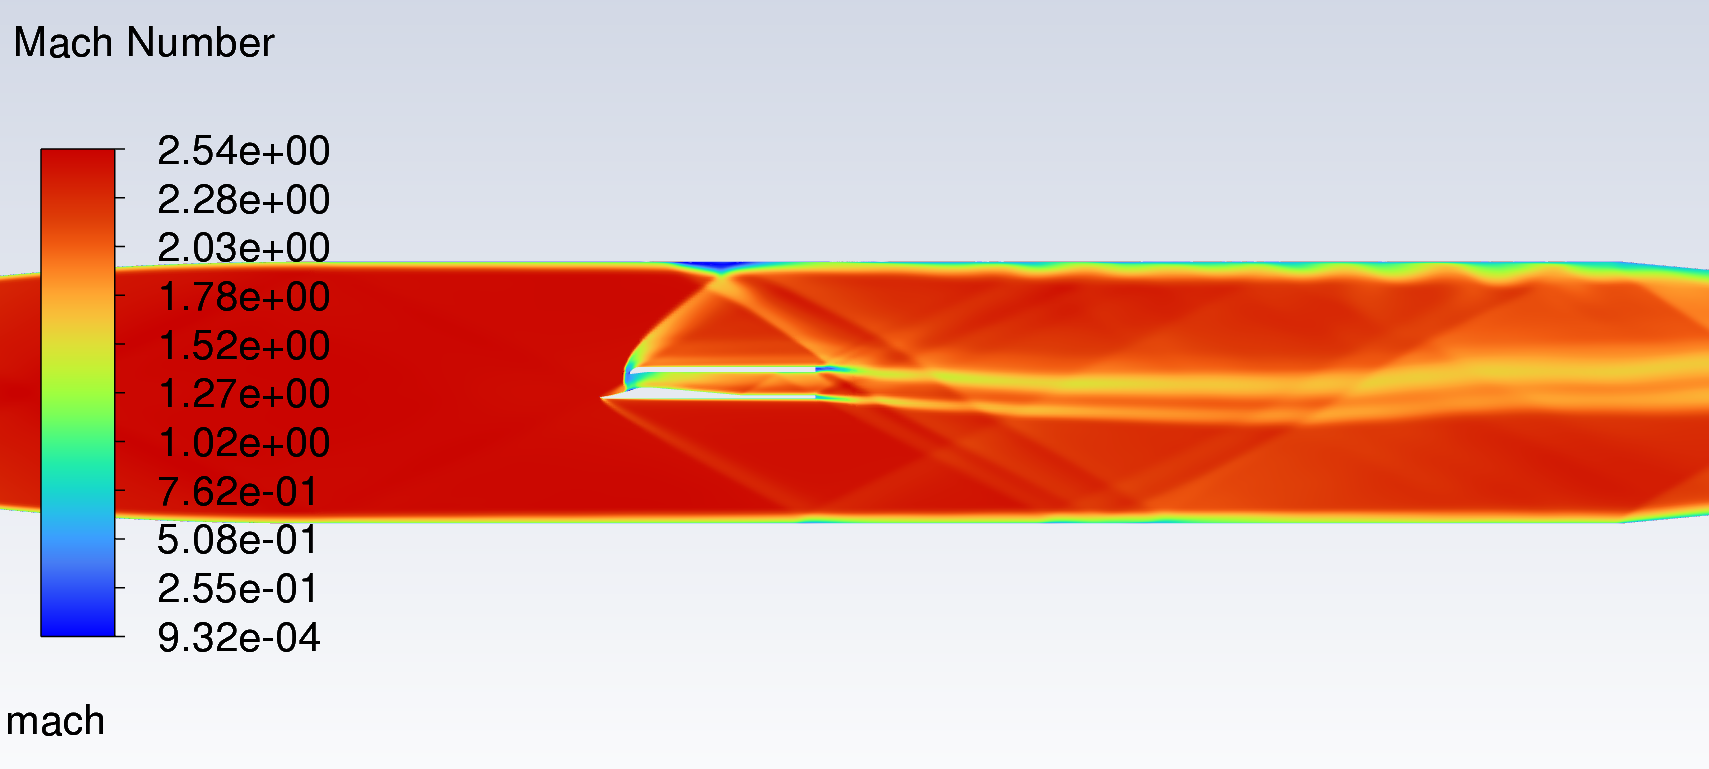
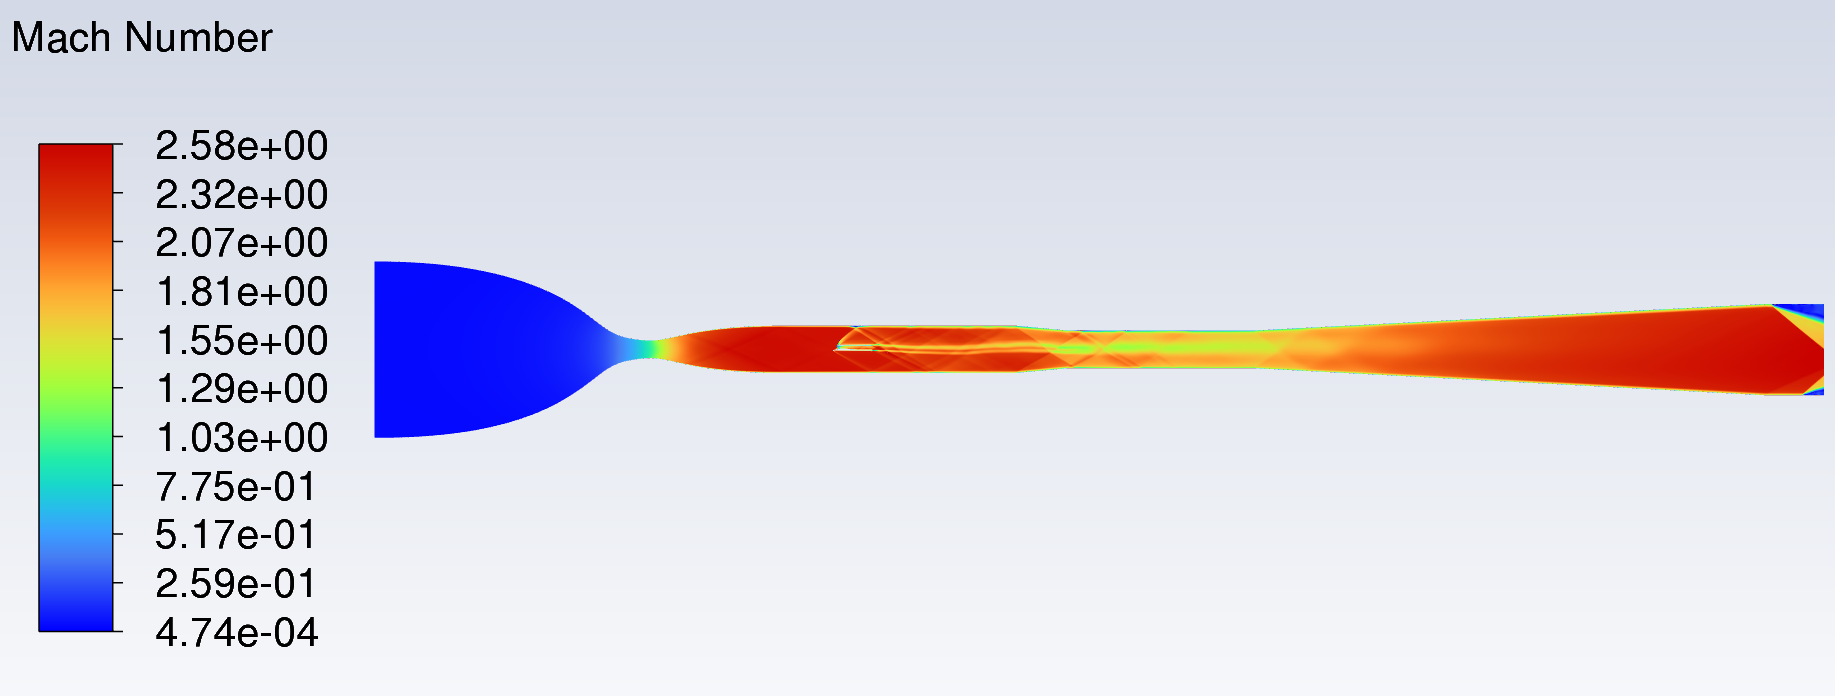
Add intakes images, content

diff --git a/project-intakes.html b/project-intakes.html
@@ -41,7 +41,10 @@
             <div class="project-grid">
                 <div class="project-main-content">
                     <section class="project-section">
-                        <h2>Overview</h2>
+                        <div class="overview-header">
+                            <h2>Overview</h2>
+                            <img src="images/Shocklab_Logo_Colour_Schlieren_1.png" alt="Shock Lab logo" class="shocklab-logo">
+                        </div>
                         <p>
                             This Final Year Project investigates resonance in supersonic inlets, especially the buzz mechanism that appears at overspeed conditions.
                             The work combines CFD, supersonic wind tunnel testing and high-speed schlieren imaging to understand and characterise this phenomenon.
@@ -51,7 +54,7 @@
                     <section class="project-section">
                         <h2>Computational Work</h2>
                         <figure class="image-figure image-figure--single">
-                            <img src="placeholder-image.jpg" alt="Supersonic intake CFD" class="project-image">
+                            <img src="images/cdf-sim-representative.png" alt="Supersonic intake CFD" class="project-image">
                             <figcaption class="image-caption">Supersonic intake CFD model</figcaption>
                         </figure>
                         <p>
@@ -70,13 +73,13 @@
                     </section>
 
                     <section class="project-section">
-                        <h2>Schlieren Imaging</h2>
+                        <h2>Schlieren</h2>
                         <figure class="image-figure image-figure--single">
-                            <img src="placeholder-image.jpg" alt="Schlieren imaging" class="project-image">
-                            <figcaption class="image-caption">High-speed schlieren imaging</figcaption>
+                            <img src="images/schlieren-sim-representative.png" alt="Representative schlieren simulation" class="project-image">
+                            <figcaption class="image-caption">Representative schlieren flow visualisation</figcaption>
                         </figure>
                         <p>
-                            Excited to use high-speed schlieren imaging to visualise shock structures and perform analysis.
+                            This image is a computational representation of the expected shock structures. High-speed schlieren images have not yet been captured; the visualisation is planned as part of upcoming wind tunnel testing.
                         </p>
                     </section>
 
@@ -84,7 +87,7 @@
                         <h2>Tools & Skills</h2>
                         <div class="tools-grid">
                             <span class="tool-tag">CFD</span>
-                            <span class="tool-tag">Wind tunnel testing</span>
+                            <span class="tool-tag">Linear Stability Analysis</span>
                             <span class="tool-tag">Schlieren imaging</span>
                             <span class="tool-tag">Test article design</span>
                             <span class="tool-tag">Experimental analysis</span>

diff --git a/project-bigbino.html b/project-bigbino.html
@@ -69,10 +69,10 @@
                         <h2>Machining</h2>
                         <figure class="image-figure image-figure--single">
                             <img src="images/bigbino-machining.jpg" alt="Bigbino machining" class="project-image">
-                            <figcaption class="image-caption">Machining Bigbino components</figcaption>
+                            <figcaption class="image-caption">Machining Bigbino motor casing</figcaption>
                         </figure>
                         <p>
-                            I machined all metallic parts for the engine including injector components, nozzle interfaces and mounting flanges.
+                            I machined all engine parts including injector components, graphite nozzles and the tube above.
                         </p>
                     </section>
 

diff --git a/project-motorsport.html b/project-motorsport.html
@@ -130,10 +130,10 @@
                     <section class="project-section">
                         <h2>Tools & Skills</h2>
                         <div class="tools-grid">
-                            <span class="tool-tag">Siemens NX</span>
+                            <span class="tool-tag">Composite Manufacturing</span>
                             <span class="tool-tag">SOLIDWORKS</span>
                             <span class="tool-tag">Ansys Fluent</span>
-                            <span class="tool-tag">Composite Manufacturing</span>
+                            <span class="tool-tag">Siemens NX</span>
                             <span class="tool-tag">Vehicle Simulation</span>
                         </div>
                     </section>

diff --git a/projects.html b/projects.html
@@ -73,7 +73,7 @@
                         </div>
                     </a>
                     <a href="project-intakes.html" class="project-tile">
-                        <div class="project-card-image">Image placeholder</div>
+                        <img src="images/inlets_project_pic.png" alt="Resonance in Supersonic Intakes" class="project-card-image">
                         <div class="project-card-body">
                             <h3>Resonance in Supersonic Intakes</h3>
                             <p>Final Year Project investigating buzz in supersonic inlets using CFD, wind tunnel testing and high-speed schlieren imaging.</p>

diff --git a/project-styles.css b/project-styles.css
@@ -35,6 +35,30 @@
     gap: 42px;
 }
 
+.overview-header {
+    display: flex;
+    justify-content: space-between;
+    align-items: flex-start;
+    gap: 24px;
+}
+
+.overview-header h2 {
+    margin-bottom: 18px;
+}
+
+.shocklab-logo {
+    width: 120px;
+    height: auto;
+    float: none;
+}
+
+@media (max-width: 760px) {
+    .overview-header {
+        flex-direction: column;
+        align-items: flex-start;
+    }
+}
+
 .project-section h2 {
     font-family: var(--font-serif);
     font-size: clamp(24px, 3vw, 30px);

diff --git a/index.html b/index.html
@@ -48,8 +48,6 @@
             </div>
         </section>
 
-        
-
         <section class="summary-section">
             <div class="container">
                 <h2>Project Highlights</h2>
